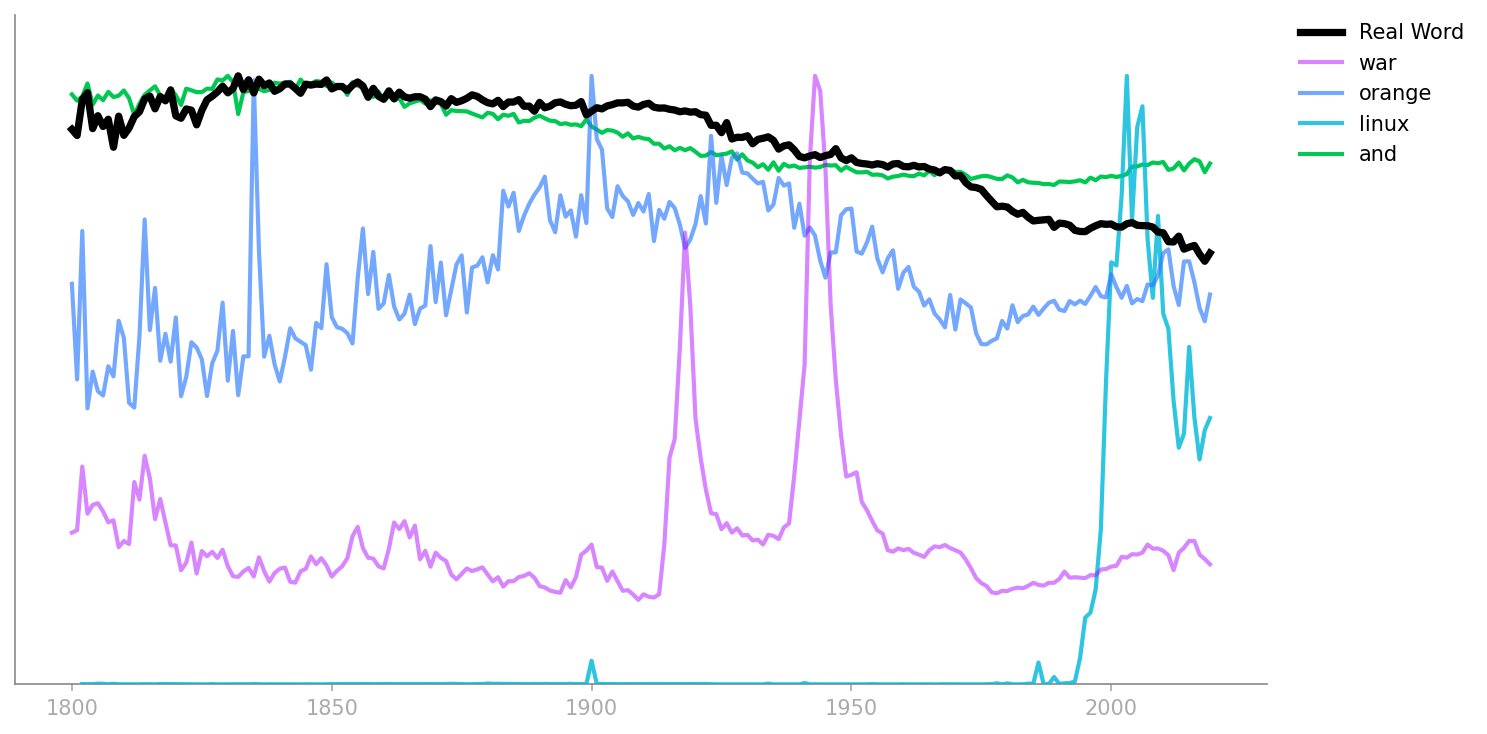
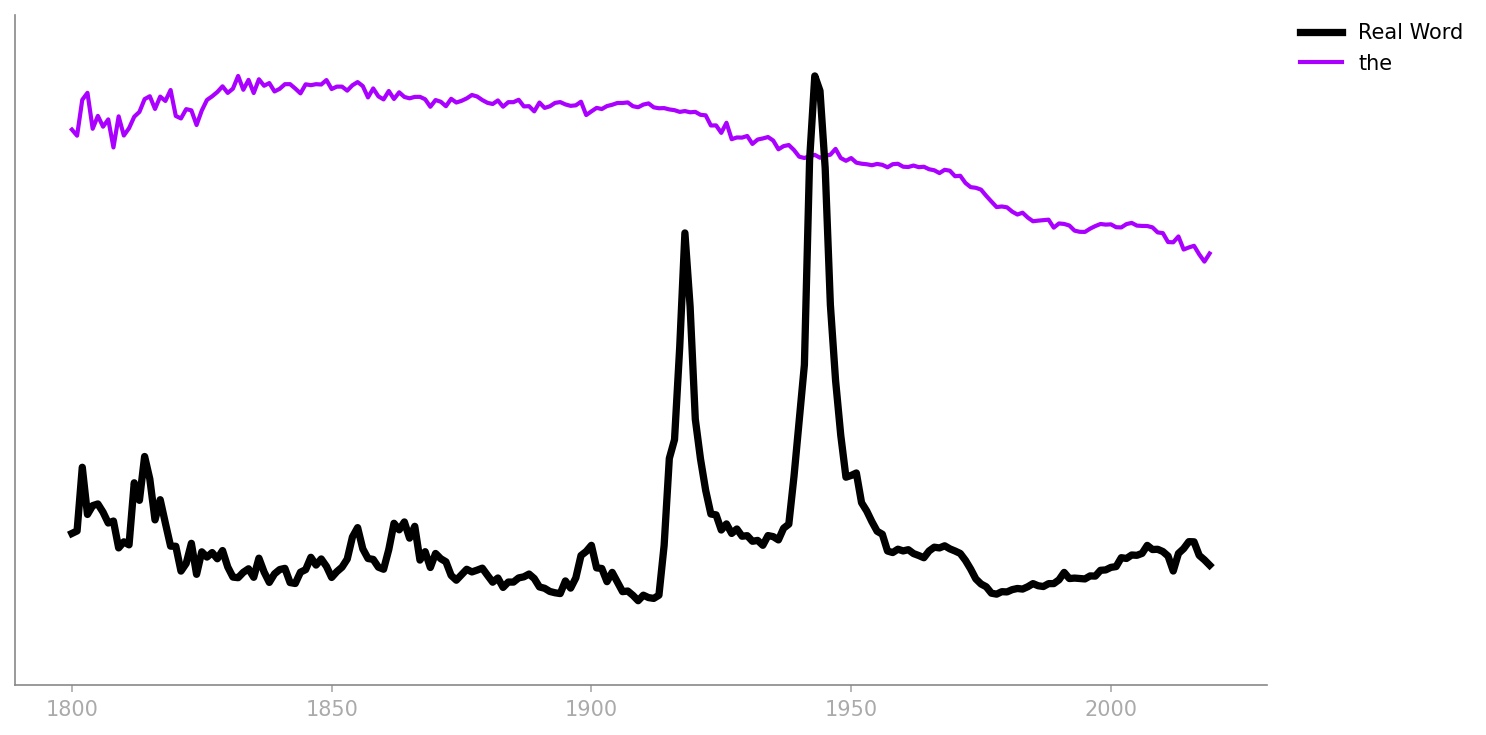
graph_backend

diff --git a/analyzer/server.py b/analyzer/server.py
@@ -12,10 +12,12 @@ IMG_SAVE_PATH = Path(__file__).parent / "img" / "graph.png"
 class Handler(BaseHTTPRequestHandler):
     # request = empty
     # response = { words: list[str] }
+
+    with open(WORDLIST_PATH) as f:
+        words = {"words" : [w.strip() for w in f.readlines()]}
+
     def wordlist_handler(self, body):
-        file_path = WORDLIST_PATH
-        with open(file_path) as f:
-            return {"words" : [w.strip() for w in f.readlines()]}
+        return self.words
         
     # request = empty
     # response = { secret: str }
@@ -26,9 +28,11 @@ class Handler(BaseHTTPRequestHandler):
     # response = { image: str }
     # in this response, you should save the image file to analyzer/img/graph.png
     # and return the file name of the file
-    def draw_graph_dandler(self, body):
-        raise Exception("TODO")
-
+    def draw_graph_handler(self, body):
+        # print(body['keywords'])
+        gettingdata.graph_of_words(body['keywords'], save_path=IMG_SAVE_PATH)
+        return {'image':str(IMG_SAVE_PATH) }
+    
     def do_GET(self):
         response = { 'type': 'error', 'reason': 'Not found' }
         status = 404
@@ -42,7 +46,7 @@ class Handler(BaseHTTPRequestHandler):
                     response = {'type': "hello", "reason": 'world'}
                     status = 200
                 case "/graph":
-                    self.draw_graph_dandler(query_params)
+                    response = self.draw_graph_handler(query_params)
                     status = 200
                 case "/wordlist":
                     response = self.wordlist_handler(query_params)

diff --git a/analyzer/gettingdata.py b/analyzer/gettingdata.py
@@ -1,5 +1,10 @@
 import json
+
+import os
+os.environ["MPLBACKEND"] = "Agg"
+
 import matplotlib.pyplot as plt
+
 import numpy as np
 from pathlib import Path
 import pandas as pd
@@ -147,7 +152,7 @@ def drawGraph(years: list[np.ndarray], values: list[np.ndarray], words, save_pat
 
     if save_path:
         fig.savefig(save_path, dpi=150, bbox_inches="tight", transparent=True)
-
+        plt.close(fig)
     if show:
         plt.show()
 
@@ -184,5 +189,5 @@ def classify(dataset, years):
 
 if __name__ == '__main__':
 
-    graph_of_words(["the", "war", "orange", "linux", "and"], save_path=IMG_SAVE_PATH, show=True)
+    graph_of_words(["the", "war"], save_path=IMG_SAVE_PATH, show=True)
     # print(classify(list(years), list(values)))
